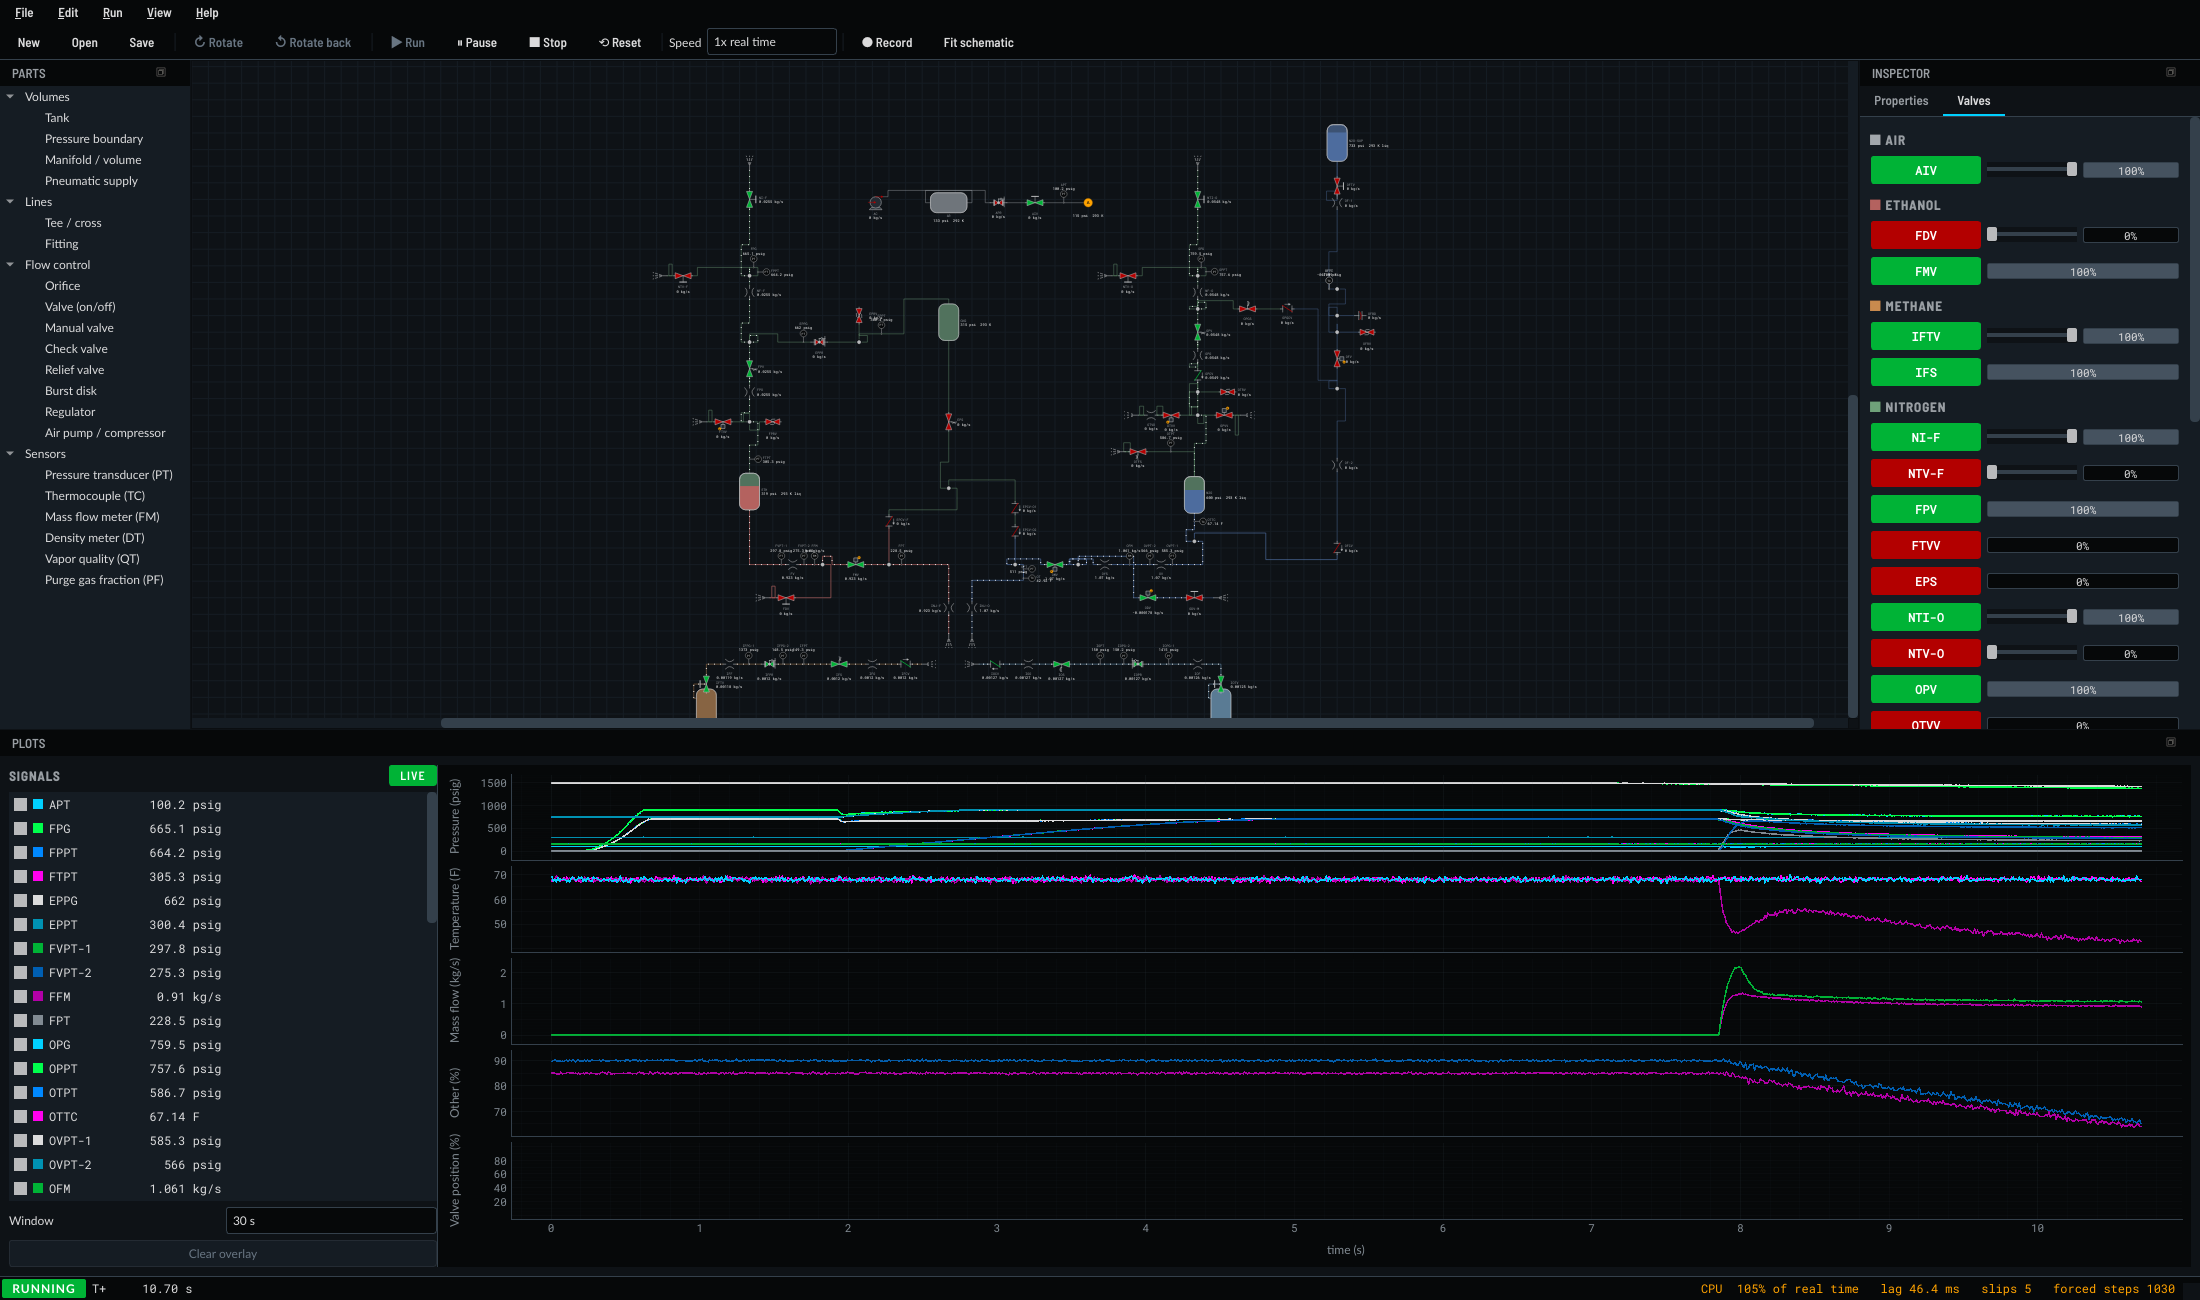
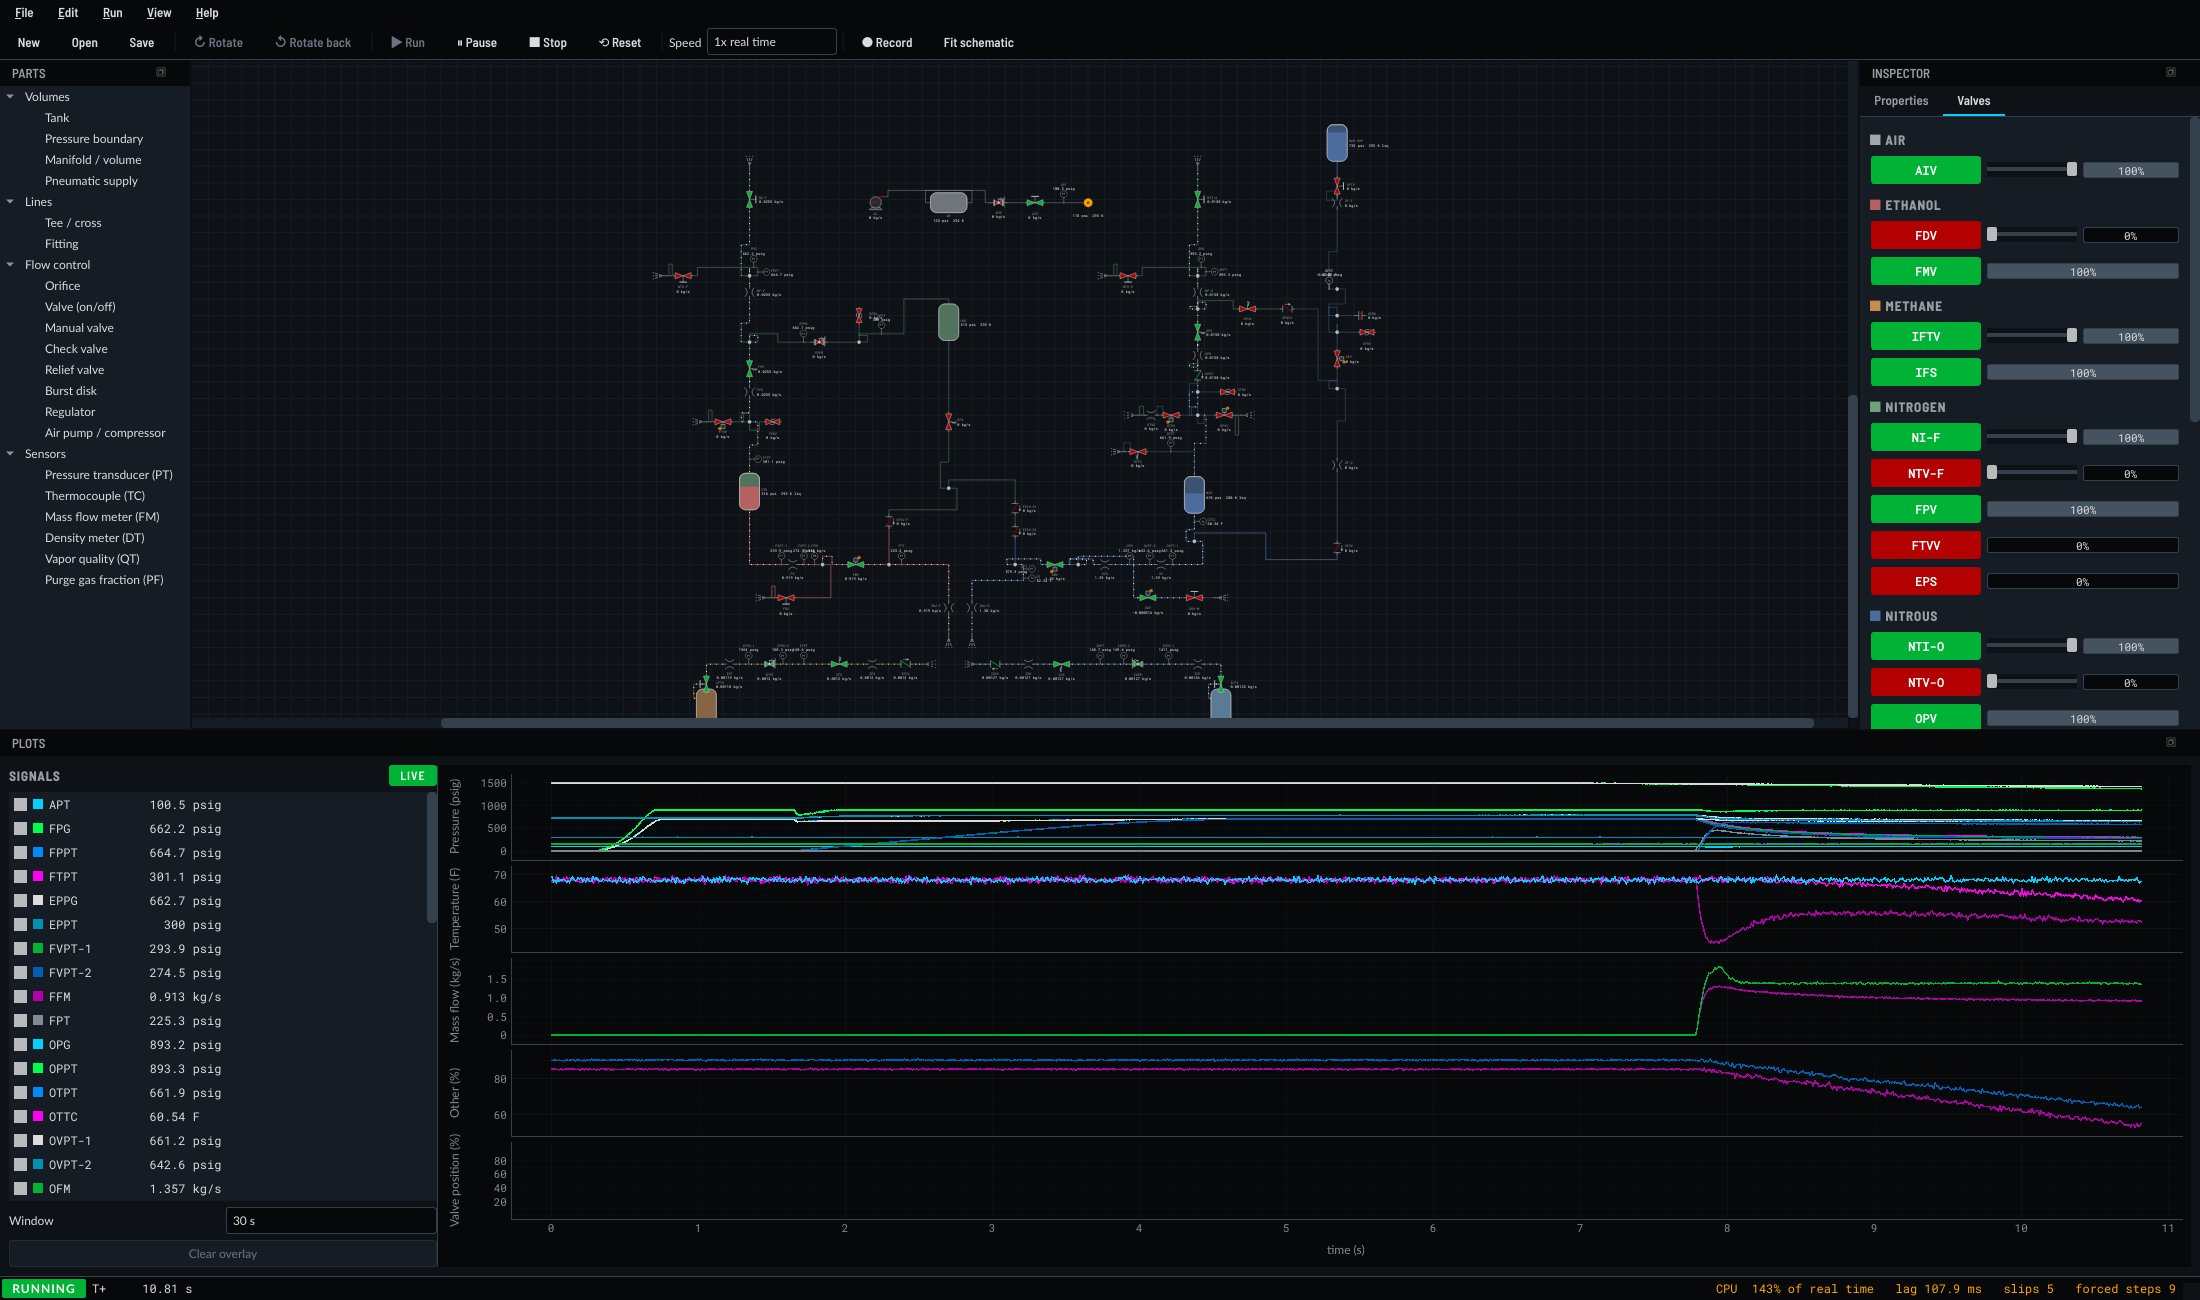
Lyra run tank: N2O vapor and GN2 share its ullage
The run tank was a nitrous tank under a GN2 pressurant, so venting it fell
below the nitrous vapor pressure. As a saturated nitrous tank its ullage holds
its own vapor plus any GN2 pressed in: venting boils the liquid and cools it,
a supercharge adds the GN2 partial pressure, and a fill from empty works.

Claude-Session: https://claude.ai/code/session_01E944EfSpMaWS7sntSVTbTp

diff --git a/tests/test_lyra.py b/tests/test_lyra.py
@@ -1,0 +1,27 @@
+"""The Lyra feed system file builds, presses, and its N2O run tank behaves like a nitrous tank."""
+from pathlib import Path
+
+from owlfluids.sim.simulation import Simulation
+
+PSI = 6894.757
+
+
+def test_the_lyra_feed_system_builds_and_presses():
+    path = Path(__file__).resolve().parents[1] / "systems" / "lyra" / "lyra-feed.yaml"
+    sim = Simulation.from_file(path)
+    assert sim.burst_disks() == ["OFBD"]
+    sim.open("NI-F", "FPV")
+    sim.run(3.0)
+    assert sim.read("FTPT") > 100 * PSI and not sim.burst("OFBD")
+
+
+def test_the_lyra_run_tank_boils_to_hold_its_vapor_pressure_when_vented():
+    """N2O vapor and GN2 share the run tank's ullage: venting it boils the liquid, which cools."""
+    path = Path(__file__).resolve().parents[1] / "systems" / "lyra" / "lyra-feed.yaml"
+    sim = Simulation.from_file(path)
+    p0 = sim.pressure("N2O.top")
+    t0 = sim.temperature("N2O.bottom")
+    sim.open("OTFS")
+    sim.run(5.0)
+    assert sim.pressure("N2O.top") > 0.85 * p0  # a GN2 ullage alone would have fallen to a third
+    assert sim.temperature("N2O.bottom") < t0 - 1.0

diff --git a/tests/test_burst_disk.py b/tests/test_burst_disk.py
@@ -1,6 +1,4 @@
 """Burst disks: shut below their burst pressure, then open for good, and a reset puts a new disk in."""
-from pathlib import Path
-
 from owlfluids.io.system import System
 from owlfluids.sim.simulation import Simulation
 
@@ -33,12 +31,3 @@ def test_a_burst_disk_ruptures_stays_open_and_resets():
     sim.reset()
     assert not sim.burst("BD")
     assert sim.burst_disks() == ["BD"]
-
-
-def test_the_lyra_feed_system_builds_and_presses():
-    path = Path(__file__).resolve().parents[1] / "systems" / "lyra" / "lyra-feed.yaml"
-    sim = Simulation.from_file(path)
-    assert sim.burst_disks() == ["OFBD"]
-    sim.open("NI-F", "FPV")
-    sim.run(3.0)
-    assert sim.read("FTPT") > 100 * PSI and not sim.burst("OFBD")

diff --git a/systems/lyra/PLACEHOLDERS.md b/systems/lyra/PLACEHOLDERS.md
@@ -19,7 +19,7 @@ walls); which valves are pneumatic (NC or NO), solenoid or manual.
 | FMV, OMV Cv | 3.0, 4.0 | Feed flow and the pressure drop to the injector |
 | Injector CdA (INJ-F, INJ-O) | 20 mm², 30 mm² | Mass flow and mixture ratio; with no combustion the "chamber" is the atmosphere |
 | ETH tank volume, fill, diameter | 15 L, 90 %, 0.15 m | Run time, ullage blowdown |
-| N2O run tank volume, fill, starting pressure, wall | 20 L, 85 %, 760 psi, 8 kg aluminum | Run time, ullage blowdown |
+| N2O run tank volume, fill, temperature, wall | 20 L, 85 %, 20 °C (about 720 psig), 8 kg aluminum | Run time, vapor pressure, how fast it cools as it boils |
 | Venturis FV, OV (permanent loss) | Cv 4, Cv 6 | Pressure drop through the flowmeters |
 | FPV, OPV Cv | 0.4, 0.6 | Press rate (the P&ID orifices FPO and OPO usually limit it anyway) |
 
@@ -35,8 +35,8 @@ walls); which valves are pneumatic (NC or NO), solenoid or manual.
 - **Valve stroke times:** solenoids 20-30 ms, pneumatic mains 150 ms, vents 100 ms, OFV 300 ms.
   Pneumatic valves use the default actuators (100 cc, stroke from 30 to 60 psig, pilot Cv 0.1).
 - **Line lengths:** all of them (flex hoses 1.5 m). Line diameters come from the P&ID.
-- **Starting state:** ethanol loaded and unpressurized; run tank loaded at about its vapor
-  pressure; NI-F, NTI-O, OFTV and every automated valve closed; ODV-M closed; AIV, IFTV and IOTV open.
+- **Starting state:** ethanol loaded and unpressurized; run tank loaded and self-pressurized at 20 °C
+  (`fill: 0, pressure: 1 atm` starts it empty for a fill); NI-F, NTI-O, OFTV and every automated valve closed; ODV-M closed; AIV, IFTV and IOTV open.
 
 ## Names added or changed
 
@@ -50,13 +50,13 @@ walls); which valves are pneumatic (NC or NO), solenoid or manual.
 - `FV` and `OV` are the venturis the flowmeters FFM and OFM read. FVPT-1/OVPT-1 read the inlet and
   FVPT-2/OVPT-2 the outlet: a lumped model has no throat pressure.
 
-## What the model can't do (yet)
+## Modelling notes and limits
 
-- **N2O vapor and GN2 in the same ullage.** A tank holds liquid under either its own vapor or
-  a pressurant, not both. The run tank is modelled as nitrous under GN2, so venting it (OTFS,
-  OTVV, OPVV) drops its pressure below the nitrous vapor pressure instead of the nitrous boiling
-  to hold it up, and the OTFS vent carries GN2. Pressing, flowing and topping off from a loaded
-  tank behave sensibly; a fill from empty does not. This is the biggest gap for Lyra.
+- **Run tank ullage.** It holds N2O vapor and any GN2 pressed in, at one temperature: venting it
+  boils the liquid to hold its vapor pressure (and cools it), and a supercharge adds the GN2's
+  partial pressure. GN2 does not dissolve in the liquid N2O. A fill from empty works, but this
+  solver needs a fresh Jacobian every step while the tank fills, so on a slow computer the status
+  bar counts forced steps then (they converge to the same answer).
 - **ODV-M is a 3-way valve with a DES port.** It is modelled as a hand valve from ODV to the
   vent; the DES path is left out until we know what it does.
 - **No combustion.** The injectors flow to the atmosphere, as on a cold flow, and the igniter
